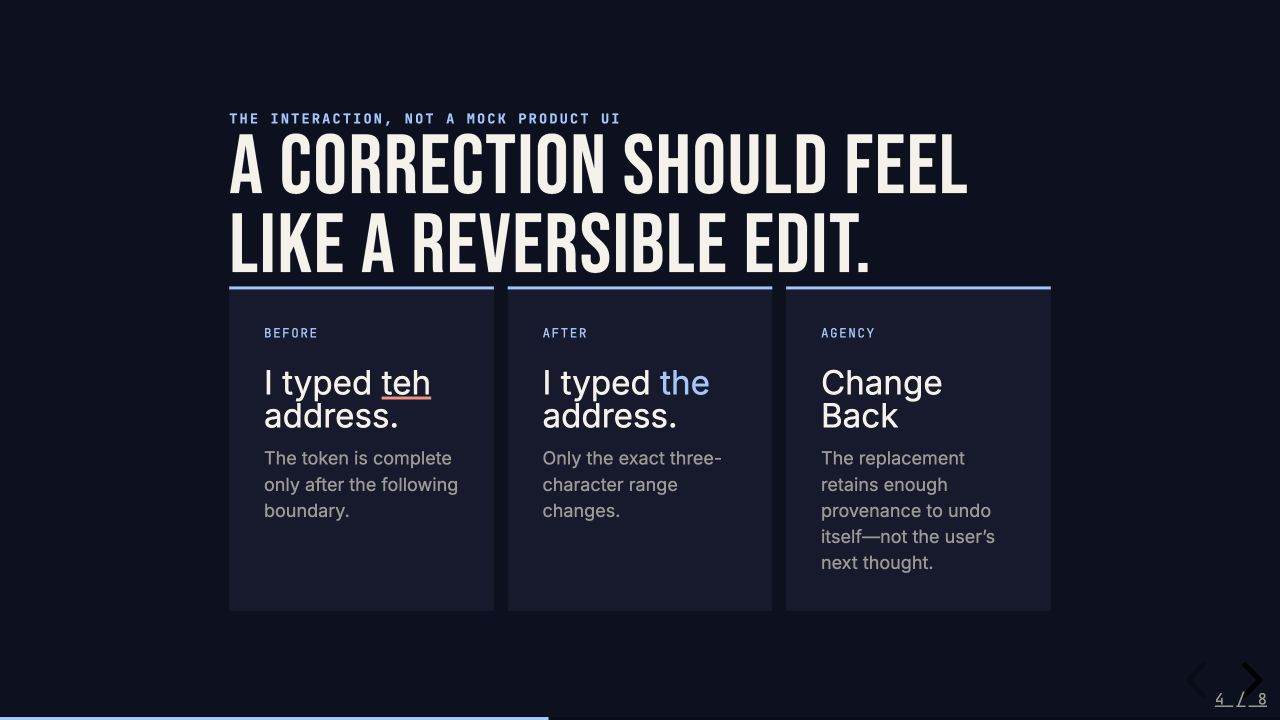
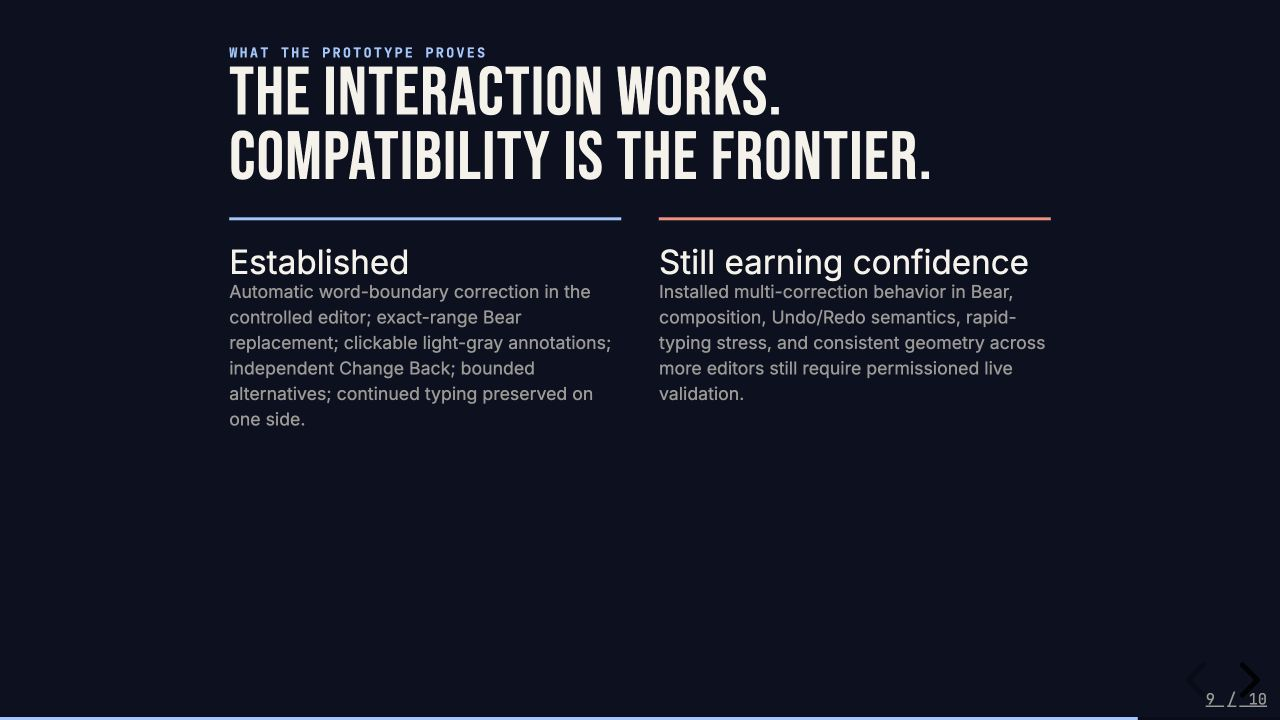
Reframe Typover as redesigned spell check

Changed region(s): [[0.1562, 0.0611, 0.8125, 0.7944], [0.4375, 0.9778, 0.875, 1.0], [0.9375, 0.9472, 1.0, 0.9778]]

diff --git a/typover/deck.html b/typover/deck.html
@@ -3,49 +3,161 @@
 <head>
   <meta charset="utf-8">
   <meta name="viewport" content="width=device-width, initial-scale=1">
-  <title>The Typo That Refused to Stay Fixed — Typover</title>
-  <link rel="preconnect" href="https://fonts.googleapis.com"><link rel="preconnect" href="https://fonts.gstatic.com" crossorigin>
+  <title>Redesigning Spell Check — Typover</title>
+  <link rel="preconnect" href="https://fonts.googleapis.com">
+  <link rel="preconnect" href="https://fonts.gstatic.com" crossorigin>
   <link href="https://fonts.googleapis.com/css2?family=Bebas+Neue&family=Inter:wght@400;600;700;800&family=JetBrains+Mono:wght@400;700&display=swap" rel="stylesheet">
-  <link rel="stylesheet" href="https://cdn.jsdelivr.net/npm/reveal.js@5.1.0/dist/reset.css"><link rel="stylesheet" href="https://cdn.jsdelivr.net/npm/reveal.js@5.1.0/dist/reveal.css"><link rel="stylesheet" href="../shared/deck.css">
-  <style>:root{--bg:#0d1020;--panel:#161a2d;--panel-2:#202642;--accent:#9cc7ff;--accent-2:#ff8c7c}.title-copy h1{font-size:3.35em}.hero-icon{width:min(28vw,400px)!important;height:min(28vw,400px)!important;object-fit:contain!important;filter:drop-shadow(0 34px 60px rgba(0,0,0,.35))}</style>
+  <link rel="stylesheet" href="https://cdn.jsdelivr.net/npm/reveal.js@5.1.0/dist/reset.css">
+  <link rel="stylesheet" href="https://cdn.jsdelivr.net/npm/reveal.js@5.1.0/dist/reveal.css">
+  <link rel="stylesheet" href="../shared/deck.css">
+  <style>
+    :root{--bg:#0d1020;--panel:#161a2d;--panel-2:#202642;--accent:#9cc7ff;--accent-2:#ff8c7c;--quiet:#a9adb8}
+    .title-grid{grid-template-columns:.64fr 1.36fr;gap:3.5vw}.title-copy h1{font-size:3em}.title-copy .dek{max-width:31ch}
+    .product-shot{height:55vh;background:#090b12;border:1px solid var(--rule);overflow:hidden}.product-shot img{width:100%;height:100%;object-fit:contain}
+    .legacy-slide h2{font-size:2.5em;max-width:16ch;margin-bottom:.35em}
+    .legacy-copy{font-size:1.22em!important;line-height:1.6!important;max-width:30ch!important;color:var(--fg)!important}
+    .legacy-copy .wrong{text-decoration:underline wavy #ff574d 2px;text-underline-offset:7px}
+    .legacy-steps{font-family:'JetBrains Mono',monospace;font-size:.42em!important;color:var(--muted)!important;letter-spacing:.04em;max-width:none!important;margin-top:2em!important}
+    .thesis h2{font-size:3.65em;max-width:15ch}.thesis p{font-size:.76em;max-width:43ch}
+    .contract-slide h2{font-size:2.28em;max-width:none;margin-bottom:.55em}
+    .contract{display:grid;grid-template-columns:repeat(3,1fr);gap:2.2vw}
+    .contract .verb{padding-top:.65em;border-top:3px solid var(--accent)}
+    .contract b{display:block;font:400 1.72em/.95 'Bebas Neue',sans-serif;color:var(--fg);margin-bottom:.28em}
+    .contract p{font-size:.56em;color:var(--muted);max-width:24ch}
+    .correction-slide{grid-template-columns:1.3fr .7fr;gap:4vw}.correction-slide h2{font-size:2.5em;max-width:10ch}
+    .correction-slide .product-shot{height:71vh}.correction-slide .caption{margin-bottom:0!important}
+    .menu-slide h2{font-size:2.35em;max-width:12ch}.menu-list{margin-top:1.1em;border-top:1px solid var(--rule)}
+    .menu-list p{font-family:'JetBrains Mono',monospace;font-size:.49em;line-height:1.25;margin:0!important;padding:.72em .15em;border-bottom:1px solid var(--rule);color:var(--muted)}
+    .menu-list p:first-child{color:var(--accent);font-weight:700}.menu-slide .product-shot{height:65vh}
+    .confidence-slide h2{font-size:2.15em;max-width:none;margin-bottom:.35em}.confidence-slide .truth-table td:first-child{width:22%;font-family:'JetBrains Mono',monospace;color:var(--accent)}
+    .confidence-slide .truth-table td:nth-child(2){width:28%;font-weight:700}.confidence-slide .truth-table th,.confidence-slide .truth-table td{padding:.58em .68em}
+    .code-slide h2{font-size:2.2em;max-width:none;margin-bottom:.4em}.code-layout{display:grid;grid-template-columns:.7fr 1.3fr;gap:3vw;align-items:center}
+    .code-panel{background:#080a11;border:1px solid rgba(156,199,255,.28);padding:1.1em 1.25em}
+    .code-panel .path{display:block;color:var(--accent-2);font:700 .31em/1.4 'JetBrains Mono',monospace;letter-spacing:.05em;margin-bottom:1em}
+    .code-panel pre{margin:0;white-space:pre-wrap}.code-panel code{font-size:.44em;line-height:1.55;color:#d9deeb}.code-panel .hl{color:var(--accent);font-weight:700}.code-panel .warm{color:var(--accent-2);font-weight:700}
+    .evidence-slide h2{font-size:2.15em;max-width:none;margin-bottom:.4em}.evidence-split{display:grid;grid-template-columns:1fr 1fr;gap:3vw}.evidence-split article{border-top:3px solid var(--accent);padding-top:.8em}.evidence-split article:last-child{border-color:var(--accent-2)}.evidence-split h3{font-size:1.05em}.evidence-split p{font-size:.56em;color:var(--muted)}
+  </style>
 </head>
 <body>
 <div class="reveal"><div class="slides">
-  <section class="title-slide"><div class="title-grid">
-    <div class="title-copy"><p class="eyebrow">Typover · macOS accessibility</p><h1>The Typo That Refused to Stay Fixed</h1><p class="dek">The difficult part of autocorrect is not spotting <code>teh</code>. It is changing exactly three characters without disturbing everything around them.</p><p class="byline">Micah Alpern · Hacker Dojo</p></div>
-    <div class="hero-frame contain"><img class="hero-icon" src="assets/typover-icon.png" alt="Typover application icon"></div>
-  </div></section>
+  <section class="title-slide">
+    <div class="title-grid">
+      <div class="title-copy">
+        <p class="eyebrow">Typover · a new writing primitive</p>
+        <h1>Redesigning Spell Check</h1>
+        <p class="dek">Let people get the thought out. Correct the obvious. Mark every change. Make reversal immediate.</p>
+        <p class="byline">Micah Alpern · Hacker Dojo</p>
+      </div>
+      <figure>
+        <div class="product-shot"><img src="assets/typover-two-corrections.jpg" alt="Actual Typover controlled editor with two automatically corrected words marked by light-gray squiggles"></div>
+        <figcaption class="caption">Actual Typover controlled editor · two proactive corrections remain visibly reversible</figcaption>
+      </figure>
+    </div>
+  </section>
 
-  <section class="statement"><p class="eyebrow">The dangerous shortcut</p><h2>Read the whole field. Fix one word. Write the whole field back.</h2><p>It works in a demo—and quietly moves the cursor, erases rich text, breaks undo, or races the next keystroke.</p></section>
+  <section class="statement legacy-slide">
+    <p class="eyebrow">The old interaction</p>
+    <h2>Every red squiggle asks the writer to stop.</h2>
+    <p class="legacy-copy">I want <span class="wrong">ot</span> get my <span class="wrong">ieas</span> out <span class="wrong">quikly</span>—but first I have to repair each word.</p>
+    <p class="legacy-steps">notice → interrupt thought → right-click → scan suggestions + unrelated commands → choose → repeat</p>
+  </section>
 
-  <section><p class="eyebrow">A smaller contract</p><h2>Change less.</h2><div class="flow">
-    <div class="step"><b>01 · detect</b><span>Wait for a word boundary, then inspect the token that just ended.</span><small>No speculative rewrite while the user is still composing.</small></div>
-    <div class="step"><b>02 · replace</b><span>Target the smallest exact accessibility range.</span><small>Preserve surrounding text, selection, and the user’s momentum.</small></div>
-    <div class="step"><b>03 · reveal</b><span>Mark the correction subtly and make “Change Back” immediate.</span><small>Automation should be visible, reversible, and quiet.</small></div>
-  </div></section>
+  <section class="statement thesis">
+    <p class="eyebrow">The premise</p>
+    <h2>The model probably knows what you meant.</h2>
+    <p>The design problem is no longer finding a possible correction. It is earning permission to act without taking authorship away from the writer.</p>
+  </section>
 
-  <section class="center-slide"><div style="width:100%"><p class="eyebrow">The interaction, not a mock product UI</p><h2 style="max-width:none">A correction should feel like a reversible edit.</h2><div class="evidence-grid">
-    <article class="evidence"><p class="kicker">Before</p><h3>I typed <span style="text-decoration:underline;text-decoration-color:var(--accent-2)">teh</span> address.</h3><p>The token is complete only after the following boundary.</p></article>
-    <article class="evidence"><p class="kicker">After</p><h3>I typed <strong>the</strong> address.</h3><p>Only the exact three-character range changes.</p></article>
-    <article class="evidence"><p class="kicker">Agency</p><h3>Change Back</h3><p>The replacement retains enough provenance to undo itself—not the user’s next thought.</p></article>
-  </div></div></section>
+  <section class="contract-slide">
+    <p class="eyebrow">The new contract</p>
+    <h2>Correct first. Explain quietly. Revert instantly.</h2>
+    <div class="contract">
+      <div class="verb"><b>Apply</b><p>Use context to fix clear, objective mistakes as soon as the word or sentence is complete.</p></div>
+      <div class="verb"><b>Mark</b><p>Leave a low-salience gray squiggle under every automatic change.</p></div>
+      <div class="verb"><b>Return control</b><p>One click restores the original or chooses another correction—without undoing the next thought.</p></div>
+    </div>
+  </section>
 
-  <section><p class="eyebrow">Why this gets hard</p><h2>Text fields are not one thing.</h2><table class="truth-table"><thead><tr><th>Surface</th><th>Risk</th><th>Design response</th></tr></thead><tbody>
-    <tr><td>Plain native fields</td><td>Selection drift</td><td>Exact-range replacement and cursor verification</td></tr>
-    <tr><td>Rich editors</td><td>Formatting loss</td><td>Never rewrite the entire document value</td></tr>
-    <tr><td>Browser/Electron editors</td><td>Accessibility behavior varies</td><td>Detect capability; fail small and visibly</td></tr>
-    <tr><td>Rapid typing</td><td>Correction races new input</td><td>Revalidate target and surrounding context</td></tr>
-  </tbody></table></section>
+  <section class="split reverse correction-slide">
+    <figure>
+      <div class="product-shot"><img src="assets/typover-two-corrections.jpg" alt="Actual Typover editor after correcting ot to to and ieas to ideas"></div>
+      <figcaption class="caption">Live controlled-editor capture · “ot” → “to” and “ieas” → “ideas”</figcaption>
+    </figure>
+    <div>
+      <p class="eyebrow">The writer keeps moving</p>
+      <h2>The clean sentence arrives behind the thought.</h2>
+      <p>Typover corrects completed tokens while the caret moves forward. The marks remain; the interruption does not.</p>
+    </div>
+  </section>
 
-  <section class="split"><div><p class="eyebrow">A system responsibility</p><h2>The cursor belongs to the writer.</h2><p>The app’s strongest behavior is often restraint: if the range is ambiguous, the field is protected, or the user has moved on, do nothing.</p></div><div class="hero-frame contain"><img class="hero-icon" src="assets/typover-icon.png" alt="Typover application icon on a dark field"></div></section>
+  <section class="split menu-slide">
+    <div>
+      <p class="eyebrow">The gray squiggle</p>
+      <h2>“I changed this for you.”</h2>
+      <p>Clicking the quiet mark exposes the original first, followed by bounded alternatives. No generic context-menu junk.</p>
+      <div class="menu-list" aria-label="Actual Typover correction menu items">
+        <p>Revert to “ieas”</p>
+        <p>teas</p><p>seas</p><p>peas</p><p>yeas</p>
+      </div>
+    </div>
+    <figure>
+      <div class="product-shot"><img src="assets/typover-corrected.jpg" alt="Actual Typover editor with ideas automatically corrected and marked by a gray squiggle"></div>
+      <figcaption class="caption">Actual correction state · menu labels captured from the live control</figcaption>
+    </figure>
+  </section>
 
-  <section><p class="eyebrow">Current evidence</p><h2>Say what passed—and what remains.</h2><div class="status">
-    <div><h3>Established</h3><p>Focused correction tests, Bear exact-range behavior, overlay placement, and an ordinary <code>teh</code> correction have been exercised.</p></div>
-    <div><h3>Still worth live validation</h3><p>Multiple corrections under rapid typing, durable Undo semantics, and broader editor coverage remain the confidence frontier.</p></div>
-  </div></section>
+  <section class="confidence-slide">
+    <p class="eyebrow">Aggressive, not reckless</p>
+    <h2>Confidence buys initiative. Reversibility protects authorship.</h2>
+    <table class="truth-table">
+      <thead><tr><th>Signal</th><th>Typover does</th><th>The writer experiences</th></tr></thead>
+      <tbody>
+        <tr><td>Clear typo</td><td>Correct immediately</td><td>Clean text with a quiet gray mark</td></tr>
+        <tr><td>Objective context error</td><td>Change the smallest exact range</td><td>The sentence improves without changing voice</td></tr>
+        <tr><td>Ambiguous or stylistic</td><td>Leave it alone</td><td>No invisible rewrite of intent</td></tr>
+        <tr><td>User reverts</td><td>Restore immediately and learn locally</td><td>Their preference wins next time</td></tr>
+      </tbody>
+    </table>
+  </section>
 
-  <section class="statement"><p class="eyebrow">Takeaway</p><p class="quote">Good autocorrect does not take over the sentence. It borrows three characters—and gives them back on request.</p><p class="footer">Typover · small changes, explicit agency</p></section>
+  <section class="code-slide">
+    <p class="eyebrow">Intelligence with a narrow job</p>
+    <h2>Ask for the smallest correction—not “better” prose.</h2>
+    <div class="code-layout">
+      <div>
+        <p>The language model sees enough nearby context to resolve obvious intent. Its output is still constrained: no tone changes, no added facts, no broad rewrite, and no correction when uncertain.</p>
+      </div>
+      <div class="code-panel">
+        <span class="path">AppleContextualCorrectionEngine.swift · actual model contract</span>
+        <pre><code>Do not rewrite, rephrase, improve style,
+change tone, or add facts.
+
+Return <span class="warm">no correction</span> when the sentence
+is acceptable or when you are uncertain.
+
+original must be the <span class="hl">smallest exact
+contiguous substring</span> copied verbatim,
+and replacement must be its minimal correction.</code></pre>
+      </div>
+    </div>
+  </section>
+
+  <section class="evidence-slide">
+    <p class="eyebrow">What the prototype proves</p>
+    <h2>The interaction works. Compatibility is the frontier.</h2>
+    <div class="evidence-split">
+      <article><h3>Established</h3><p>Automatic word-boundary correction in the controlled editor; exact-range Bear replacement; clickable light-gray annotations; independent Change Back; bounded alternatives; continued typing preserved on one side.</p></article>
+      <article><h3>Still earning confidence</h3><p>Installed multi-correction behavior in Bear, composition, Undo/Redo semantics, rapid-typing stress, and consistent geometry across more editors still require permissioned live validation.</p></article>
+    </div>
+  </section>
+
+  <section class="statement">
+    <p class="eyebrow">Takeaway</p>
+    <p class="quote">Do not make writers triage mistakes. Fix the obvious. Mark the change. Give it back.</p>
+    <p class="footer">Typover · intelligence without interruption</p>
+  </section>
 </div></div>
-<script src="https://cdn.jsdelivr.net/npm/reveal.js@5.1.0/dist/reveal.js"></script><script>Reveal.initialize({hash:true,slideNumber:'c/t',progress:true,transition:'fade'});</script>
+<script src="https://cdn.jsdelivr.net/npm/reveal.js@5.1.0/dist/reveal.js"></script>
+<script>Reveal.initialize({hash:true,slideNumber:'c/t',progress:true,transition:'fade',backgroundTransition:'fade'});</script>
 </body>
 </html>

diff --git a/index.html b/index.html
@@ -241,8 +241,8 @@
       <a href="typover/deck.html" target="_blank" rel="noopener">
         <span class="num">27</span>
         <span class="title">
-          The Typo That Refused to Stay Fixed
-          <span class="blurb">Autocorrect through macOS Accessibility—without rewriting the field, stealing the cursor, flattening rich text, or making the change impossible to reverse.</span>
+          Redesigning Spell Check
+          <span class="blurb">Replace the red-squiggle repair queue with proactive intelligence: correct clear mistakes, mark each change quietly, and make every correction immediately reversible.</span>
         </span>
         <span class="meta">Slides · Swift</span>
       </a>

diff --git a/AUDIT.md b/AUDIT.md
@@ -32,13 +32,18 @@ lifestyle scene is used. Meeting Memory and YARM screenshots use deterministic s
 
 ## 27 · Typover
 
-- **Creative audit:** The first title was too tall at the 1280×720 presentation viewport and pushed
-  the premise below the fold.
-- **Content audit:** The story now centers on exact-range replacement, cursor ownership, reversible
-  correction, and editor capability differences. Current live evidence and remaining validation are
-  stated separately.
-- **Iteration:** Reduced title and icon scale, restored the complete premise on slide one, and added
-  an explicitly labeled interaction model rather than a fabricated product screenshot.
+- **Creative audit:** The earlier deck opened on a narrow implementation problem and repeated the app
+  icon instead of showing the writing experience. The reframed deck now opens with a fresh capture of
+  the real Typover controlled editor, uses the old red-squiggle interruption as the contrast, and lets
+  the gray correction marks carry the visual identity.
+- **Content audit:** The new story defines spell check as a proactive, reversible editing system:
+  apply clear corrections, mark them quietly, expose the original first, and decline ambiguous or
+  stylistic rewrites. It distinguishes controlled-editor proof from the remaining Bear compatibility
+  matrix and does not promote deterministic tests into universal editor support.
+- **Iteration:** Renamed the talk to **Redesigning Spell Check**, replaced the exact-range-first arc
+  with interruption → initiative → agency → safety, added two authentic Typover correction captures,
+  included the actual Revert menu content and contextual-model contract, and tightened the close to
+  “Fix the obvious. Mark the change. Give it back.”
 
 ## 26 · Glyph
 
